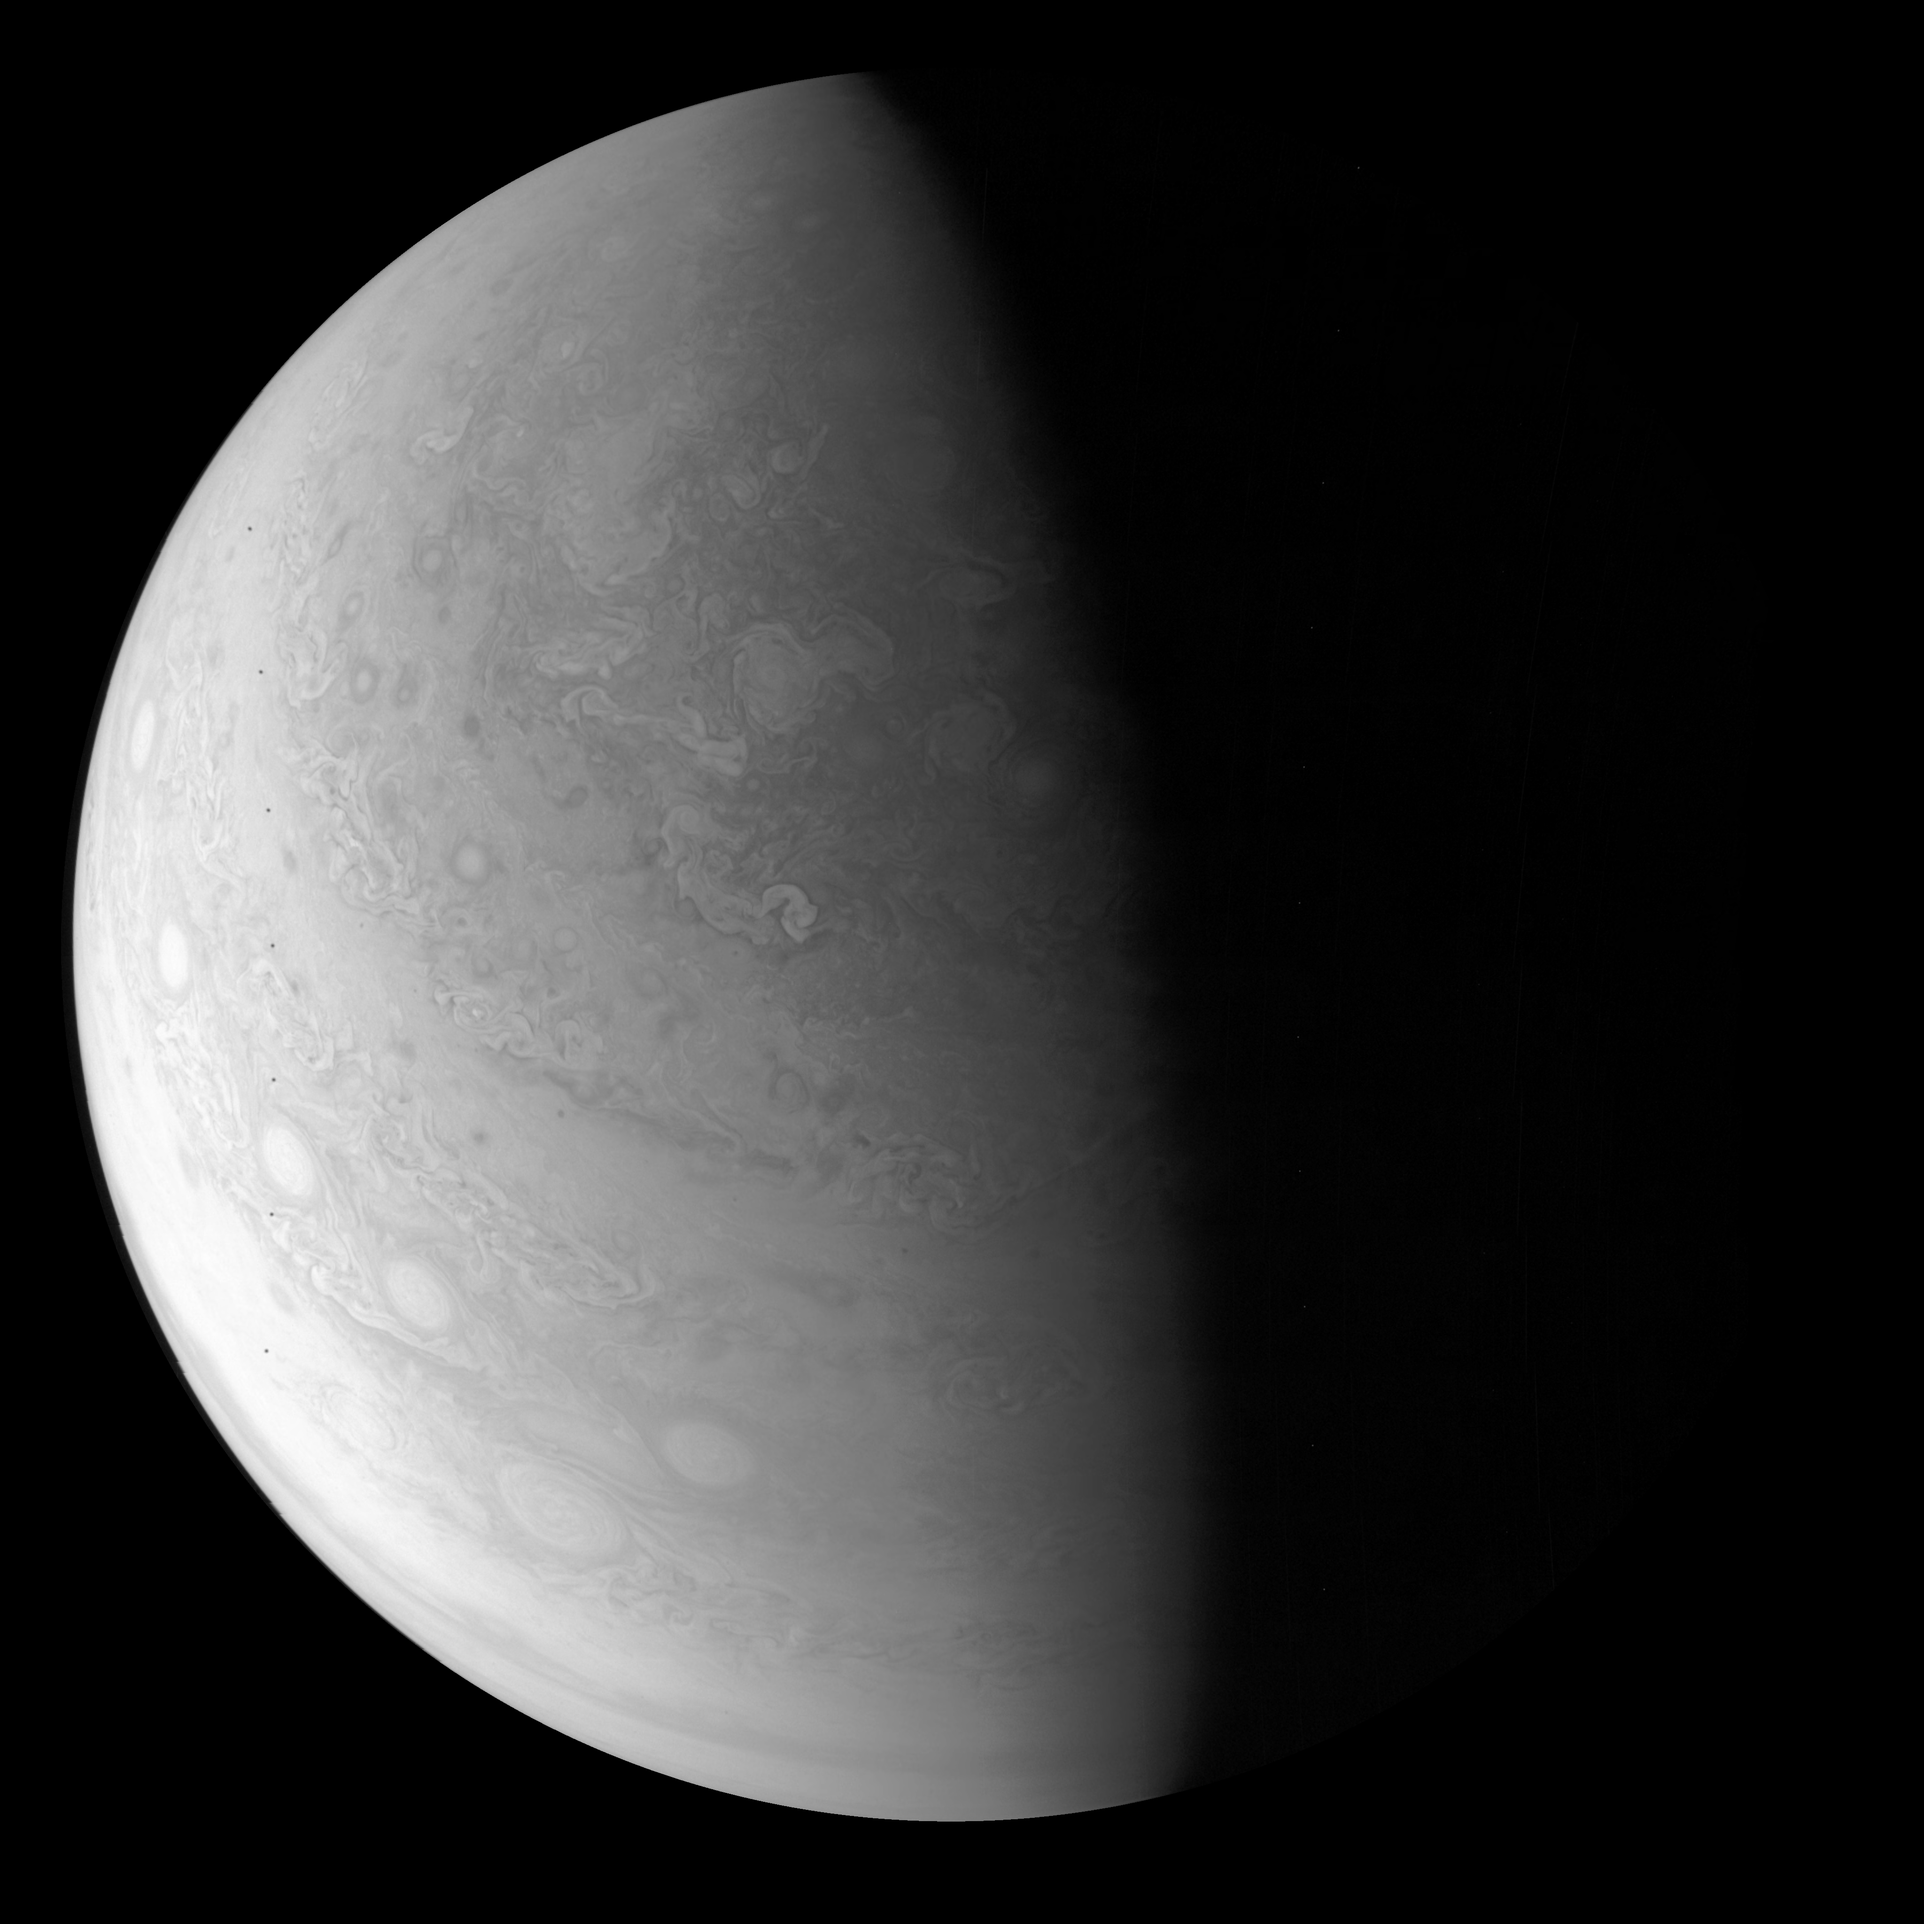
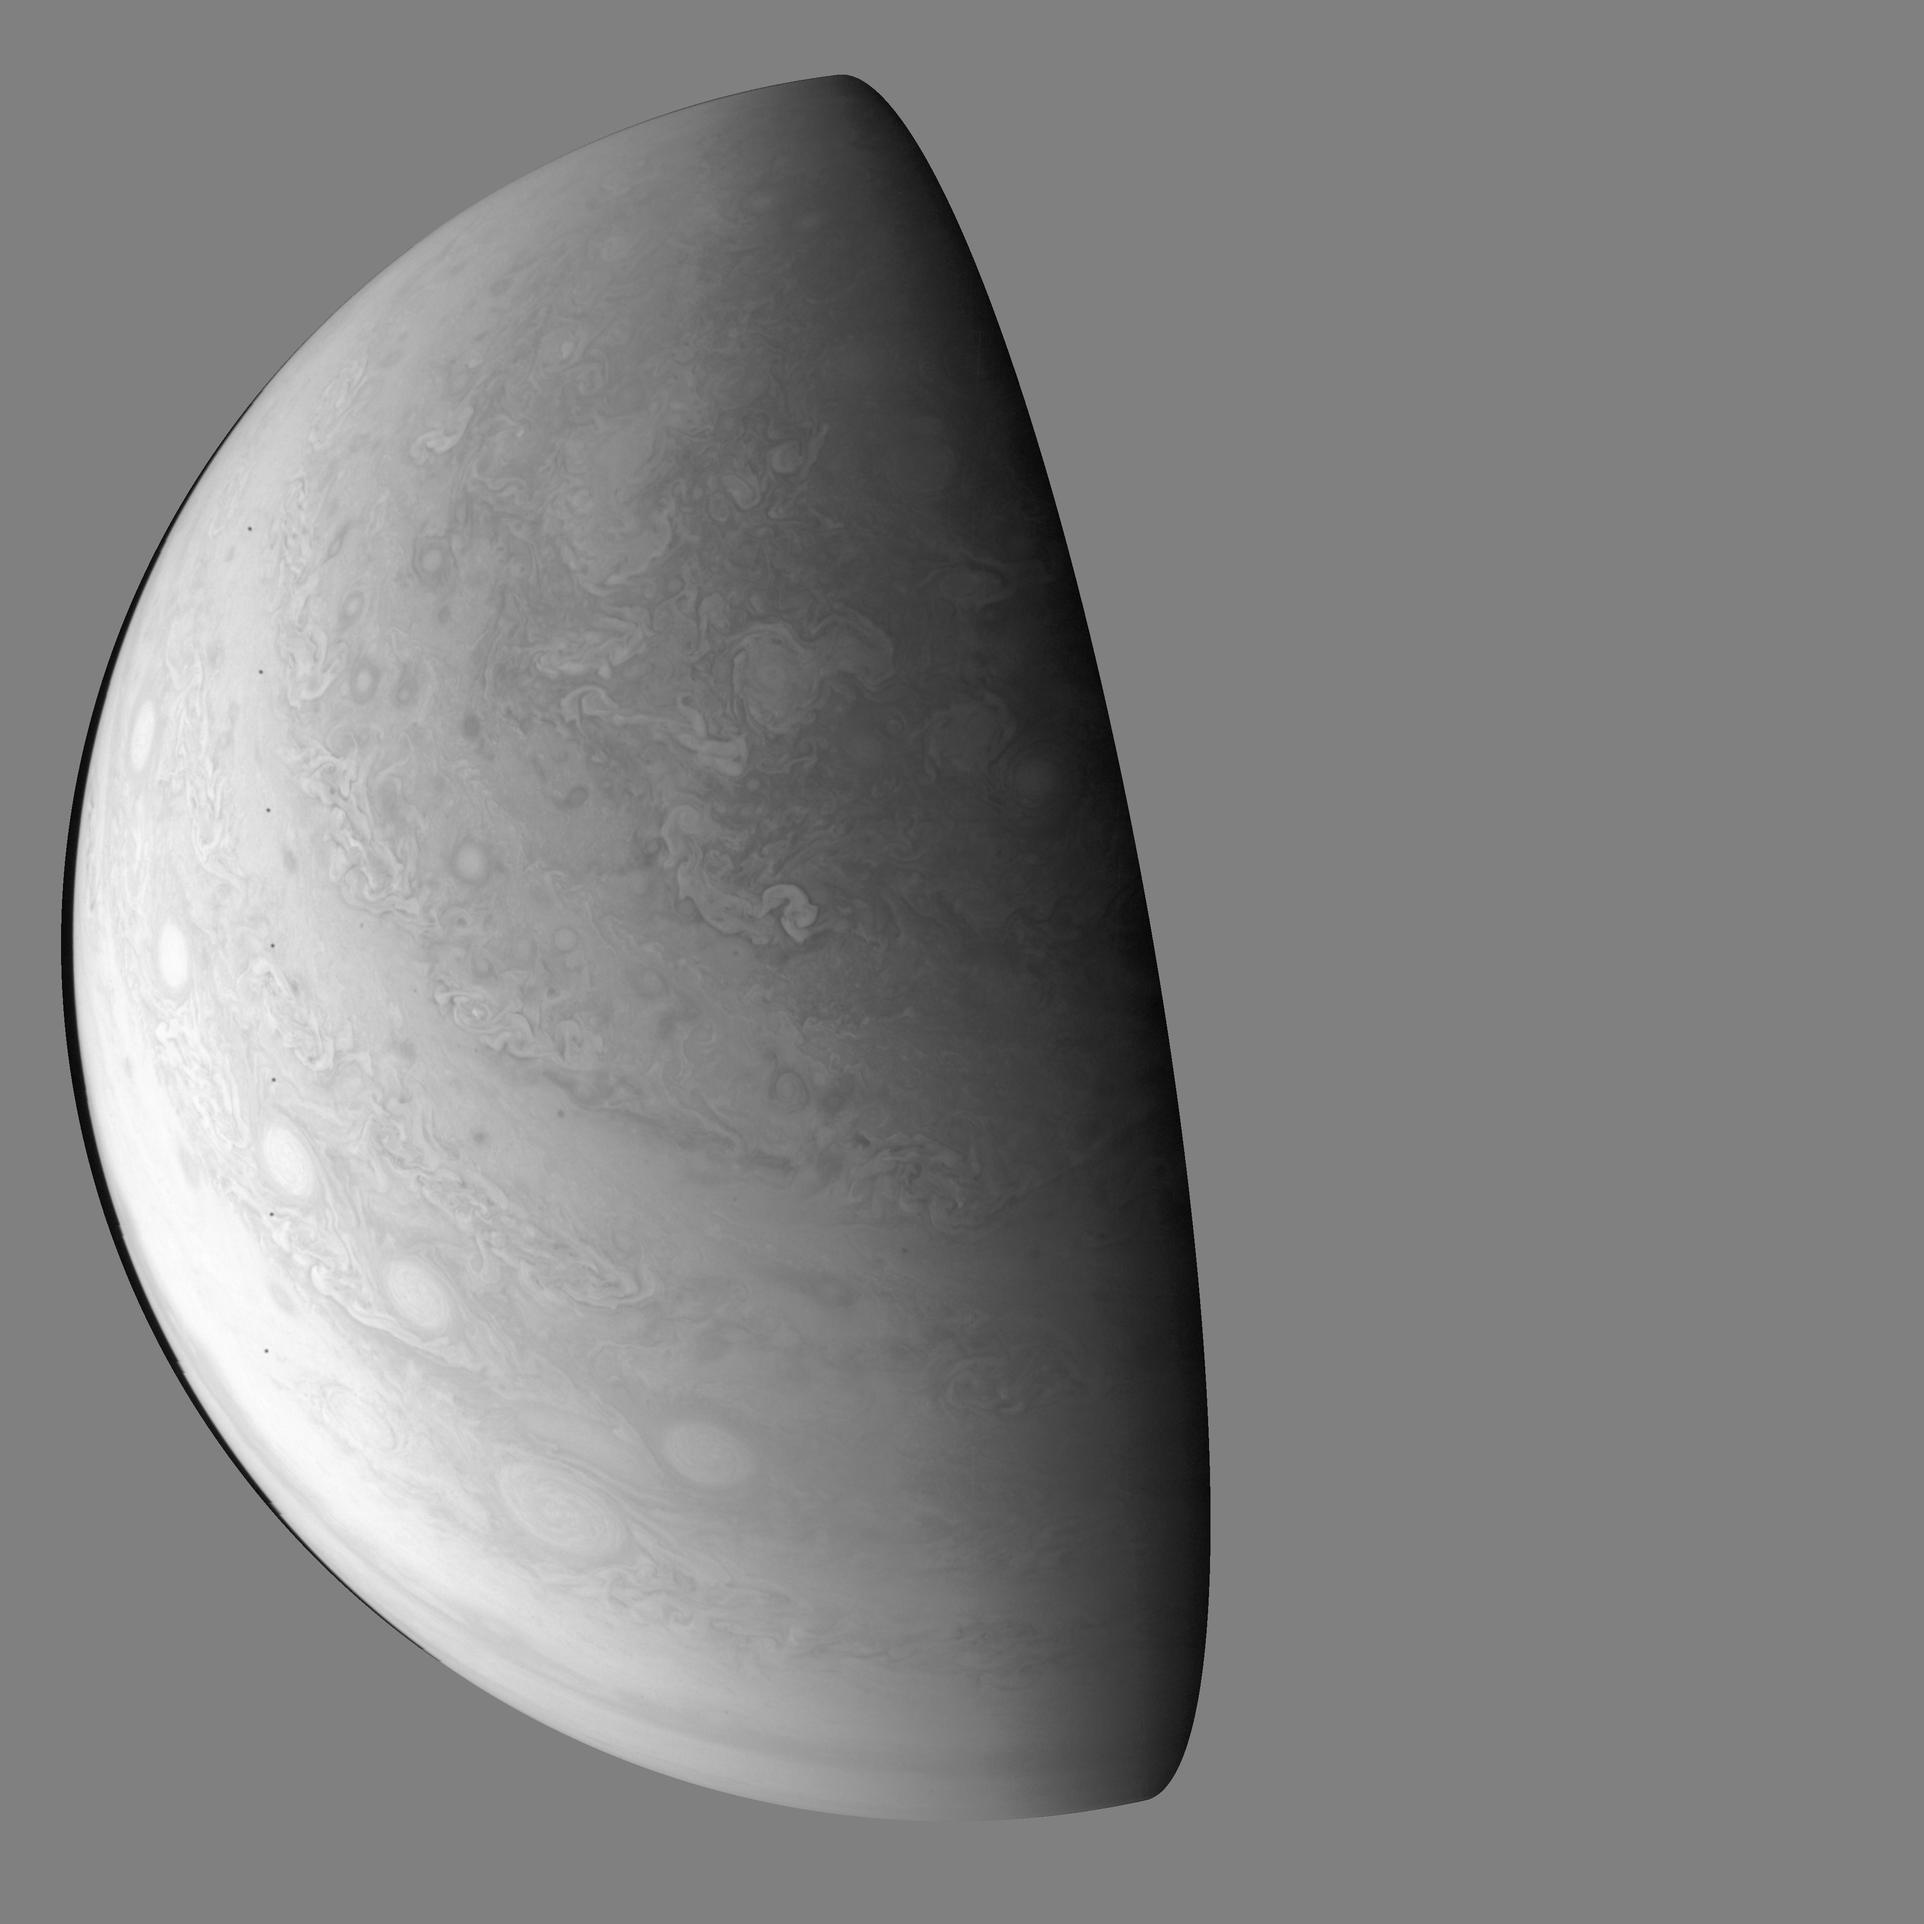
stitching multiple images

diff --git a/pyjune/combine_multiple_images.py b/pyjune/combine_multiple_images.py
@@ -1,0 +1,238 @@
+"""
+Combine multiple JunoCam raw images into a single cylindrical projection.
+
+This script processes multiple JunoCam observations and combines them into
+a single cylindrical map. Later observations overwrite earlier ones in
+overlapping regions.
+"""
+
+import cv2
+import numpy as np
+from pathlib import Path
+import spiceypy as spice
+
+from spice_correction import SpiceKernelManager, JunoCamImage
+from map_projection import JupiterEllipsoid
+from pinhole_projection import extract_framelets
+from cylindrical_projection import CylindricalProjection
+
+
+# ============================================================================
+# CONFIGURATION - Edit these values as needed
+# ============================================================================
+
+# List of raw images to combine (processed in order - later images overwrite earlier ones)
+IMAGE_PATHS = [
+    "images/raw/JNCE_2021159_34C00048_V01-raw.png",
+    "images/raw/JNCE_2021159_34C00055_V01-raw.png",
+    "images/raw/JNCE_2021159_34C00080_V01-raw.png",
+]
+
+# Cylindrical projection parameters
+PROJECTION_CONFIG = {
+    "lon_min": 0.0,          # Minimum longitude (degrees West, 0-360)
+    "lon_max": 360.0,        # Maximum longitude (degrees West, 0-360)
+    "lat_min": -90.0,        # Minimum latitude (degrees, -90 to +90)
+    "lat_max": 90.0,         # Maximum latitude (degrees, -90 to +90)
+    "resolution_deg": 0.1    # Map resolution in degrees per pixel
+}
+
+# Output configuration
+OUTPUT_DIR = Path("images/processed/cylindrical")
+OUTPUT_NAME = "combined"  # Output files will be named: combined_cylindrical_rgb.png, etc.
+
+# ============================================================================
+
+
+def process_single_image(
+    image_path: Path,
+    projection: CylindricalProjection,
+    ellipsoid: JupiterEllipsoid,
+    sun_position: np.ndarray = None
+):
+    """
+    Process a single raw image and add its framelets to the projection.
+
+    Args:
+        image_path: Path to raw image file
+        projection: CylindricalProjection instance to accumulate data
+        ellipsoid: Jupiter ellipsoid model
+        sun_position: Optional pre-computed sun position (if None, will compute)
+
+    Returns:
+        dict with processing statistics
+    """
+    print("\n" + "-" * 70)
+    print(f"Processing: {image_path.name}")
+    print("-" * 70)
+
+    # Load image metadata
+    if not image_path.exists():
+        print(f"✗ Error: Image file not found: {image_path}")
+        return None
+
+    junocam_img = JunoCamImage(image_path)
+    print(f"Product ID: {junocam_img.product_id}")
+    print(f"Image time: {junocam_img.image_time}")
+
+    # Get timing information
+    start_et = junocam_img.get_ephemeris_time()
+    interframe_delay_str = junocam_img.metadata.get("INTERFRAME_DELAY", "0.371 <s>")
+    interframe_delay = float(interframe_delay_str.split()[0])
+
+    # Apply timing corrections from SPICE instrument kernel
+    start_time_bias = spice.gdpool("INS-61500_START_TIME_BIAS", 0, 1)[0]
+    interframe_delta = spice.gdpool("INS-61500_INTERFRAME_DELTA", 0, 1)[0]
+
+    start_et += start_time_bias
+    interframe_delay += interframe_delta
+
+    print(f"Start ET: {start_et:.2f}")
+    print(f"Interframe delay: {interframe_delay:.3f} seconds")
+
+    # Extract framelets
+    print("Extracting framelets...")
+    framelets_by_color = extract_framelets(image_path, start_et, interframe_delay)
+
+    # Use middle frame for reference ephemeris time
+    num_frames = len(framelets_by_color["green"])
+    view_frame_idx = num_frames // 2
+    reference_et = framelets_by_color["green"][view_frame_idx].et
+
+    print(f"Using frame {view_frame_idx}/{num_frames} for reference")
+    print(f"Reference ET: {reference_et:.2f}")
+
+    # Get Sun position if not provided
+    if sun_position is None:
+        sun_position, _ = spice.spkpos('SUN', reference_et, 'IAU_JUPITER', 'LT+S', 'JUPITER')
+        print(f"Sun position in IAU_JUPITER frame: {sun_position}")
+
+    # Add framelets to projection
+    print("\nAdding framelets to map...")
+    total_samples = 0
+
+    for color_name in ['red', 'green', 'blue']:
+        framelets = framelets_by_color[color_name]
+        print(f"\n{color_name.upper()} channel ({len(framelets)} framelets):")
+
+        for idx, framelet in enumerate(framelets):
+            # Skip first and last frames (often incomplete)
+            if framelet.frame_number == 0 or framelet.frame_number >= len(framelets) - 1:
+                continue
+
+            debug_info = projection.add_framelet(
+                framelet.data,
+                framelet.cam_position,
+                framelet.cam_orient,
+                ellipsoid,
+                sun_position,
+                color_name
+            )
+
+            total_samples += debug_info['valid']
+
+            if idx % 5 == 0:
+                print(f"  Frame {framelet.frame_number:3d}: {debug_info['valid']:,} valid samples")
+
+    print(f"\n✓ Added {total_samples:,} total samples from {image_path.name}")
+
+    return {
+        "product_id": junocam_img.product_id,
+        "total_samples": total_samples,
+        "num_framelets": num_frames
+    }
+
+
+def main():
+    """Main entry point for combining multiple images."""
+    print("=" * 70)
+    print("COMBINE MULTIPLE JUNOCAM IMAGES INTO CYLINDRICAL PROJECTION")
+    print("=" * 70)
+    print(f"\nImages to process: {len(IMAGE_PATHS)}")
+    for i, path in enumerate(IMAGE_PATHS, 1):
+        print(f"  {i}. {path}")
+
+    print(f"\nProjection configuration:")
+    print(f"  Longitude range: {PROJECTION_CONFIG['lon_min']:.1f}° to {PROJECTION_CONFIG['lon_max']:.1f}° West")
+    print(f"  Latitude range: {PROJECTION_CONFIG['lat_min']:.1f}° to {PROJECTION_CONFIG['lat_max']:.1f}°")
+    print(f"  Resolution: {PROJECTION_CONFIG['resolution_deg']:.3f} deg/pixel")
+
+    # Load SPICE kernels
+    print("\n" + "=" * 70)
+    print("1. Loading SPICE kernels...")
+    print("=" * 70)
+    km = SpiceKernelManager()
+    km.load_kernels()
+
+    try:
+        # Initialize Jupiter ellipsoid
+        print("\n" + "=" * 70)
+        print("2. Initializing Jupiter ellipsoid...")
+        print("=" * 70)
+        ellipsoid = JupiterEllipsoid()
+
+        # Create cylindrical projection (shared across all images)
+        print("\n" + "=" * 70)
+        print("3. Creating cylindrical projection...")
+        print("=" * 70)
+        projection = CylindricalProjection(
+            lon_min=PROJECTION_CONFIG['lon_min'],
+            lon_max=PROJECTION_CONFIG['lon_max'],
+            lat_min=PROJECTION_CONFIG['lat_min'],
+            lat_max=PROJECTION_CONFIG['lat_max'],
+            resolution_deg=PROJECTION_CONFIG['resolution_deg']
+        )
+
+        # Compute surface grid (done once, reused for all images)
+        print("\n" + "=" * 70)
+        print("4. Computing surface grid...")
+        print("=" * 70)
+        # Use current time as reference (doesn't matter since IAU_JUPITER is body-fixed)
+        reference_et = spice.str2et("2021-06-09T00:00:00")
+        projection.compute_surface_grid(ellipsoid, reference_et)
+
+        # Process each image
+        print("\n" + "=" * 70)
+        print("5. Processing images...")
+        print("=" * 70)
+
+        processing_stats = []
+        for image_path in IMAGE_PATHS:
+            stats = process_single_image(
+                Path(image_path),
+                projection,
+                ellipsoid
+            )
+            if stats:
+                processing_stats.append(stats)
+
+        # Save combined projection
+        print("\n" + "=" * 70)
+        print("6. Saving combined projection...")
+        print("=" * 70)
+        projection.save(OUTPUT_DIR, OUTPUT_NAME)
+
+        # Print summary
+        print("\n" + "=" * 70)
+        print("✓ PROCESSING COMPLETE")
+        print("=" * 70)
+        print(f"\nProcessed {len(processing_stats)} images:")
+        for stats in processing_stats:
+            print(f"  {stats['product_id']}: {stats['total_samples']:,} samples from {stats['num_framelets']} framelets")
+
+        # Get final coverage statistics
+        red, green, blue = projection.get_maps()
+        total_pixels = projection.width * projection.height
+        valid_pixels = np.sum(projection.map_counts > 0)
+        coverage_percent = valid_pixels / total_pixels * 100
+
+        print(f"\nFinal map coverage: {coverage_percent:.1f}% ({valid_pixels:,} / {total_pixels:,} pixels)")
+        print(f"Output directory: {OUTPUT_DIR}")
+
+    finally:
+        km.unload_kernels()
+        print("\n✓ SPICE kernels unloaded")
+
+
+if __name__ == "__main__":
+    main()

diff --git a/pyjune/main.py b/pyjune/main.py
@@ -12,7 +12,6 @@ import spiceypy as spice
 
 from spice_correction import SpiceKernelManager, JunoCamImage
 from map_projection import JupiterEllipsoid
-from utils import create_debug_visualization
 from pinhole_projection import extract_framelets, project_framelets_to_pinhole_view
 from cylindrical_projection import CylindricalProjection
 
@@ -149,9 +148,10 @@ Examples:
     parser.add_argument(
         '--image',
         type=str,
-        default='images/raw/JNCE_2021159_34C00080_V01-raw.png',
+        # default='images/raw/JNCE_2021159_34C00080_V01-raw.png',
         # default='images/raw/JNCE_2021159_34C00055_V01-raw.png',
         # default='images/raw/JNCE_2021159_34C00048_V01-raw.png',
+        default='images/raw/JNCE_2021106_33C00052_V01-raw.png',
         help='Path to input image (default: JNCE_2021159_34C00080_V01-raw.png)'
     )
 
